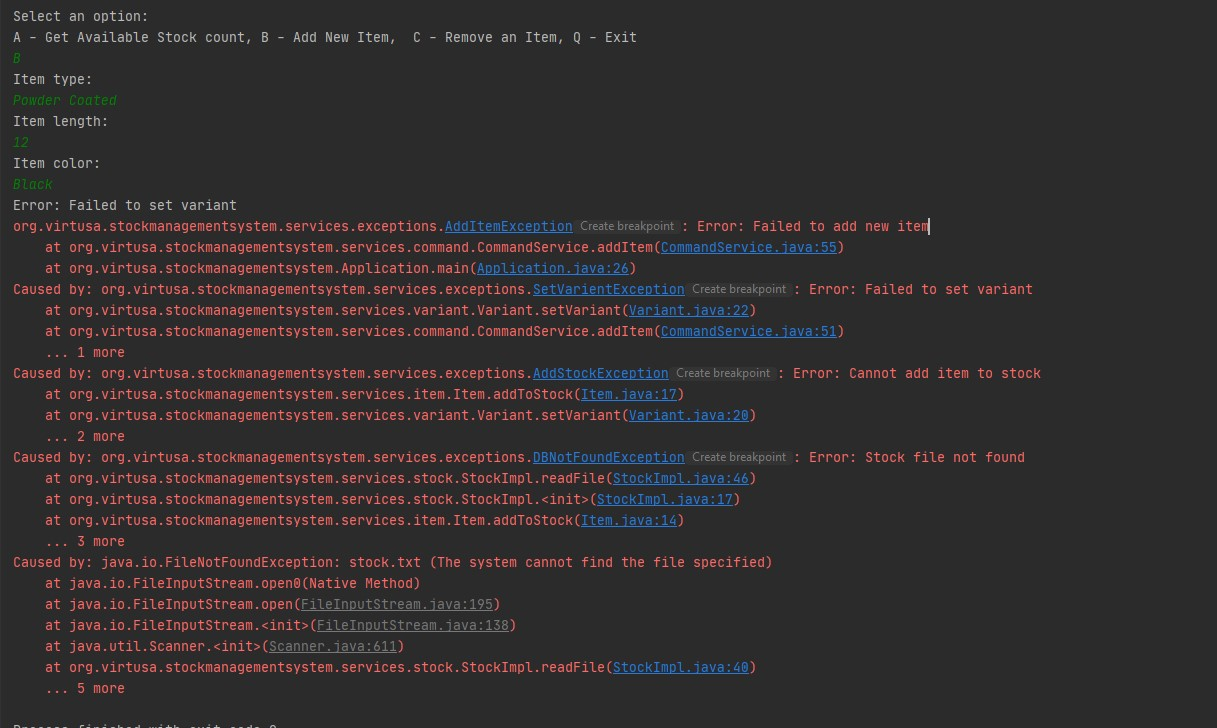
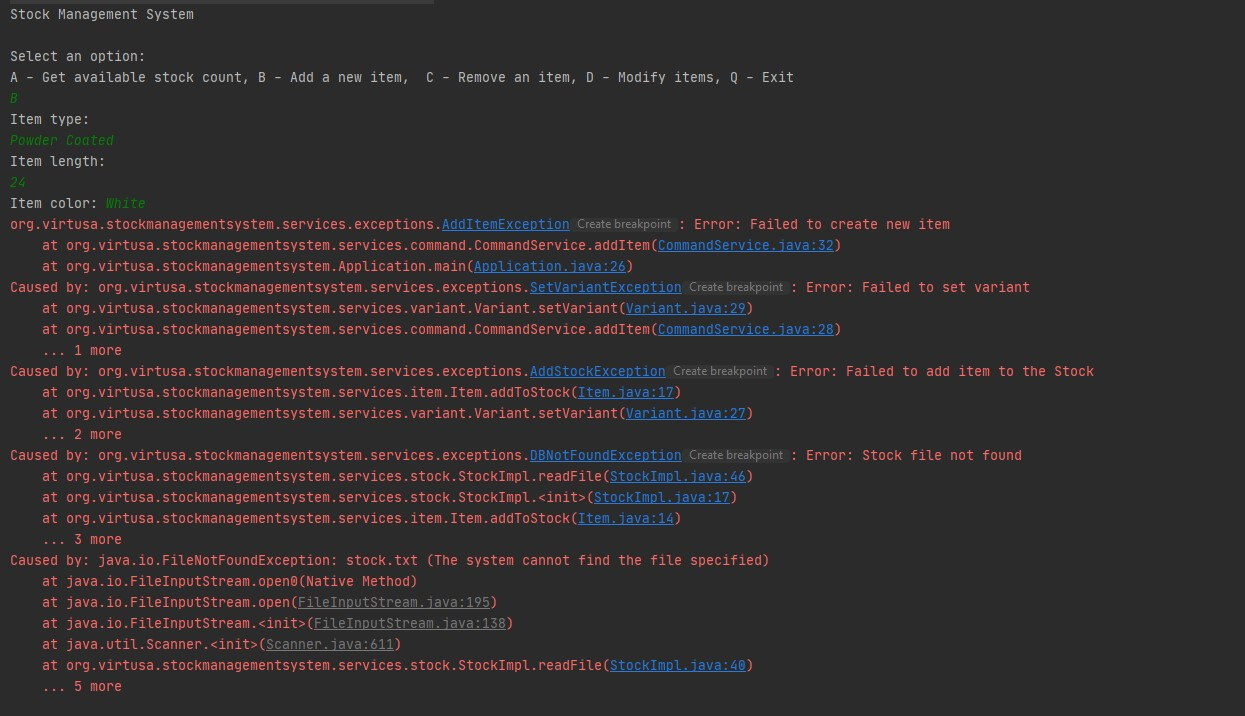
add "Change Variant Exception"

Changed region(s): [[0.0, 0.0, 0.8743, 0.9832]]

diff --git a/exception-handler/src/main/java/org/virtusa/stockmanagementsystem/services/variant/Variant.java b/exception-handler/src/main/java/org/virtusa/stockmanagementsystem/services/variant/Variant.java
@@ -1,8 +1,9 @@
 package org.virtusa.stockmanagementsystem.services.variant;
 
 import org.virtusa.stockmanagementsystem.services.exceptions.AddStockException;
+import org.virtusa.stockmanagementsystem.services.exceptions.ChangeVariantException;
 import org.virtusa.stockmanagementsystem.services.exceptions.OverLengthException;
-import org.virtusa.stockmanagementsystem.services.exceptions.SetVarientException;
+import org.virtusa.stockmanagementsystem.services.exceptions.SetVariantException;
 import org.virtusa.stockmanagementsystem.services.item.Item;
 
 public class Variant {
@@ -20,21 +21,21 @@ public class Variant {
 
     }
 
-    public void setVariant() throws SetVarientException {
+    public void setVariant() throws SetVariantException {
         try {
             Item item = new Item();
             item.addToStock();
         } catch (AddStockException exception) {
-            throw new SetVarientException("Error: Failed to set variant", exception);
+            throw new SetVariantException("Error: Failed to set variant", exception);
         }
     }
 
     public void changeVariant(int itemId, String type, int length, String color) {
         if (length > 24) {
             try {
-                throw new OverLengthException("Length Cannot be more than 24");
+                throw new OverLengthException("Error: Length Cannot be more than 24");
             } catch (OverLengthException e) {
-                throw new RuntimeException(e);
+                throw new ChangeVariantException("Error: Cannot change variant",e);
             }
 
         }

diff --git a/exception-handler/src/main/java/org/virtusa/stockmanagementsystem/services/command/CommandService.java b/exception-handler/src/main/java/org/virtusa/stockmanagementsystem/services/command/CommandService.java
@@ -16,7 +16,8 @@ public class CommandService {
         String itemType = scanner.nextLine();
 
         System.out.println("Item length: ");
-        int itemLength = Integer.parseInt(scanner.nextLine());
+        int itemLength=scanner.nextInt();
+        scanner.nextLine();
 
         System.out.println("Item color: ");
         String itemColor = scanner.nextLine();
@@ -26,8 +27,8 @@ public class CommandService {
             variant.setVariant();
             System.out.println("Item added!");
 
-        } catch (SetVarientException e) {
-            throw new AddItemException("Error: Failed to add new item", e);
+        } catch (SetVariantException e) {
+            throw new AddItemException("Error: Failed to create new item", e);
         }
     }
 
@@ -61,7 +62,8 @@ public class CommandService {
         String itemType = scanner.nextLine();
 
         System.out.println("Item length: ");
-        int itemLength = Integer.parseInt(scanner.nextLine());
+        int itemLength = scanner.nextInt();
+        scanner.nextLine();
 
         System.out.println("Item color: ");
         String itemColor = scanner.nextLine();

diff --git a/exception-handler/src/main/java/org/virtusa/stockmanagementsystem/Application.java b/exception-handler/src/main/java/org/virtusa/stockmanagementsystem/Application.java
@@ -16,7 +16,7 @@ public class Application {
         try {
             while (true) {
                 System.out.println("Select an option:");
-                System.out.println("A - Get Available Stock count, B - Add New Item,  C - Remove an Item, D - Modify Item, Q - Exit");
+                System.out.println("A - Get available stock count, B - Add a new item,  C - Remove an item, D - Modify items, Q - Exit");
                 String selectedOption = scanner.nextLine();
                 switch (selectedOption.toLowerCase()) {
                     case "a":

diff --git a/exception-handler/src/main/java/org/virtusa/stockmanagementsystem/services/stock/StockImpl.java b/exception-handler/src/main/java/org/virtusa/stockmanagementsystem/services/stock/StockImpl.java
@@ -23,7 +23,7 @@ public class StockImpl implements Stock {
 
     public void reduceStocks(int stockCount) throws DBNotFoundException {
         if (stockCount > availableStocks)
-            throw new QuantityExceedException("Error: Not enough stocks!", null);
+            throw new QuantityExceedException("Error: Not enough stocks!");
         availableStocks = availableStocks - stockCount;
         writeFile(availableStocks);
 

diff --git a/exception-handler/src/main/java/org/virtusa/stockmanagementsystem/services/item/Item.java b/exception-handler/src/main/java/org/virtusa/stockmanagementsystem/services/item/Item.java
@@ -14,7 +14,7 @@ public class Item {
             Stock stock = new StockImpl();
             stock.addNewItem(1);
         } catch (DBNotFoundException exception) {
-            throw new AddStockException("Error: Cannot add item to stock", exception);
+            throw new AddStockException("Error: Failed to add item to the Stock", exception);
         }
     }
 

diff --git a/exception-handler/src/main/java/org/virtusa/stockmanagementsystem/services/exceptions/QuantityExceedException.java b/exception-handler/src/main/java/org/virtusa/stockmanagementsystem/services/exceptions/QuantityExceedException.java
@@ -1,9 +1,6 @@
 package org.virtusa.stockmanagementsystem.services.exceptions;
 
 public class QuantityExceedException extends RuntimeException {
-    public QuantityExceedException(String message, Exception exception) {
-        super(message, exception);
-        System.out.println(message);
+    public QuantityExceedException(String message) {
     }
-
 }

diff --git a/exception-handler/src/main/java/org/virtusa/stockmanagementsystem/services/exceptions/DBNotFoundException.java b/exception-handler/src/main/java/org/virtusa/stockmanagementsystem/services/exceptions/DBNotFoundException.java
@@ -3,6 +3,5 @@ package org.virtusa.stockmanagementsystem.services.exceptions;
 public class DBNotFoundException extends Exception {
     public DBNotFoundException(String message, Exception exception) {
         super(message, exception);
-//        System.out.println(message);
     }
 }

diff --git a/exception-handler/src/main/java/org/virtusa/stockmanagementsystem/services/exceptions/AddStockException.java b/exception-handler/src/main/java/org/virtusa/stockmanagementsystem/services/exceptions/AddStockException.java
@@ -3,6 +3,5 @@ package org.virtusa.stockmanagementsystem.services.exceptions;
 public class AddStockException extends Exception {
     public AddStockException(String message, Exception exception) {
         super(message, exception);
-//        System.out.println(message);
     }
 }

diff --git a/exception-handler/src/main/java/org/virtusa/stockmanagementsystem/services/exceptions/ChangeVariantException.java b/exception-handler/src/main/java/org/virtusa/stockmanagementsystem/services/exceptions/ChangeVariantException.java
@@ -1,0 +1,7 @@
+package org.virtusa.stockmanagementsystem.services.exceptions;
+
+public class ChangeVariantException extends RuntimeException {
+    public ChangeVariantException(String message, Exception exception) {
+        super(message, exception);
+    }
+}

diff --git a/exception-handler/src/main/java/org/virtusa/stockmanagementsystem/services/exceptions/SetVariantException.java b/exception-handler/src/main/java/org/virtusa/stockmanagementsystem/services/exceptions/SetVariantException.java
@@ -1,0 +1,7 @@
+package org.virtusa.stockmanagementsystem.services.exceptions;
+
+public class SetVariantException extends Exception {
+    public SetVariantException(String message, Exception exception) {
+        super(message, exception);
+    }
+}
